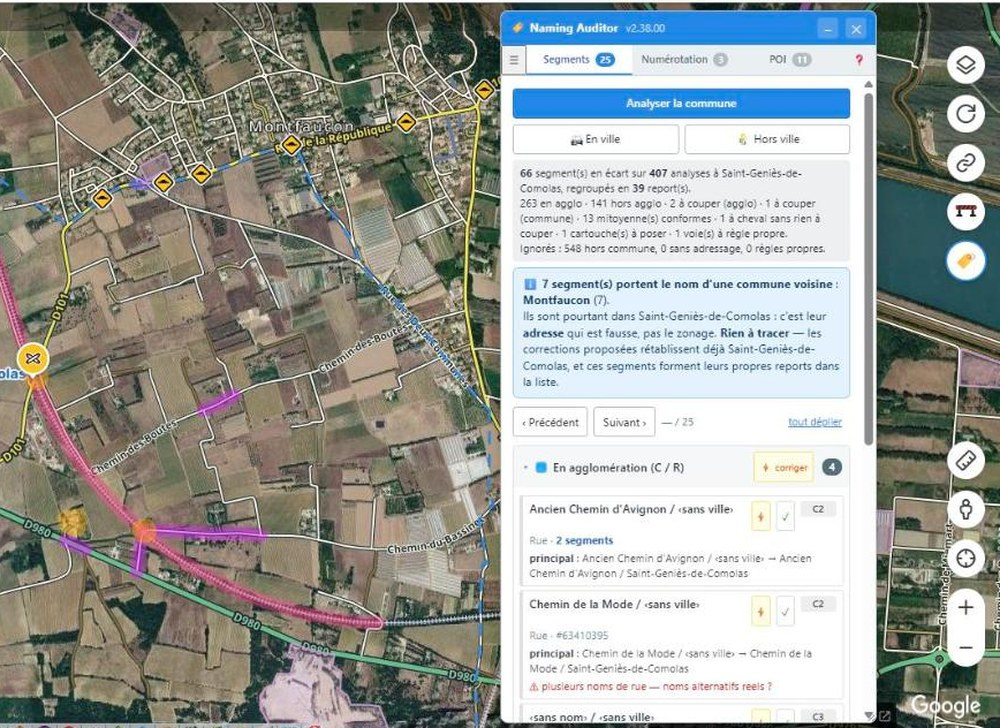
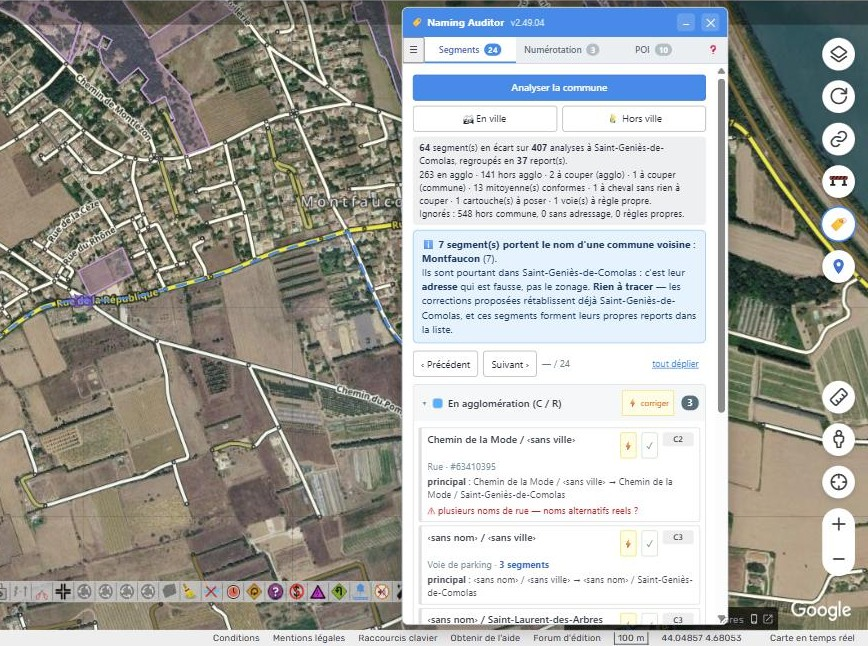
Captures 2.49.04 et README : la regle du hameau (schema 2)
Quatre captures refaites en 2.49.04 (Saint-Laurent-des-Arbres, Saint-Genies-de-
Comolas, Ploemeur). La 4e montre la nouveaute : bourg trace, secteur a trancher,
Le Couregant declare hameau. Donnees de pose retirees de Ploemeur apres coup.

diff --git a/README.md b/README.md
@@ -20,6 +20,8 @@ Le script ne peut pas voir les panneaux. Il déduit donc la zone de deux géomé
 1. le **contour communal** (fichier GeoJSON chargé par l'éditeur) délimite le périmètre d'analyse et fournit le nom de commune ;
 2. le **polygone d'agglomération**, tracé à la main à l'intérieur, sépare l'agglomération du reste.
 
+Les panneaux EB10/EB20 relevés servent de point de départ au tracé, **mais ils ne suffisent pas à faire une agglomération** (règle votée par la communauté française en 2026, page wiki *Nommage des segments*) : on trace le bourg, les villages et les anciennes communes ; un **hameau ou un lieu-dit reste hors agglomération, même panneauté**. Pour chaque secteur de panneaux, le script demande donc de trancher — tracer, ou **« C'est un hameau »** — et s'en souvient. En cas de doute, un Local Champ ou un Country Manager tranche.
+
 > 🎬 **[Voir en vidéo : la zone bâtie, et les villages rattachés](https://drive.google.com/file/d/1f1zLZQvBatKcZv9dQ6dCtRN-VDXAiq6_/view)** — une minute, sur l'exemple de Gruissan. C'est le point sur lequel on se trompe le plus souvent : le polygone à tracer n'est pas la limite de la commune, et une commune peut en compter plusieurs.
 >
 > Le fichier est aussi versionné ici : [`captures/zone-batie-villages-rattaches.mp4`](captures/zone-batie-villages-rattaches.mp4). ⚠ GitHub ne lit pas les vidéos de l'arborescence — ce chemin sert d'archive, pas de lecture en ligne.
@@ -72,9 +74,9 @@ Sur les POI, le script **dit d'où vient sa proposition** : quelle voie, à quel
 
 ![L'onglet POI : l'adresse proposée pour un lieu, et le raisonnement qui y mène.](captures/03-poi-explication.jpg)
 
-Tout part de deux géométries, à préparer une fois par commune : le contour officiel, et l'agglomération tracée à la main.
+Tout part de deux géométries, à préparer une fois par commune : le contour officiel, et l'agglomération tracée à la main. Chaque secteur de panneaux se tranche : un polygone pour un village, « C'est un hameau » pour un hameau — ici Le Courégant, à Ploemeur, panneauté mais hors agglomération.
 
-![Le volet des données de référence : choix de la commune, puis tracé de l'agglomération.](captures/04-donnees-reference.jpg)
+![Le volet des données de référence : le bourg tracé, un secteur de panneaux encore à trancher, et le hameau du Courégant déclaré hors agglomération.](captures/04-donnees-reference.jpg)
 
 ## Mise à jour
 
